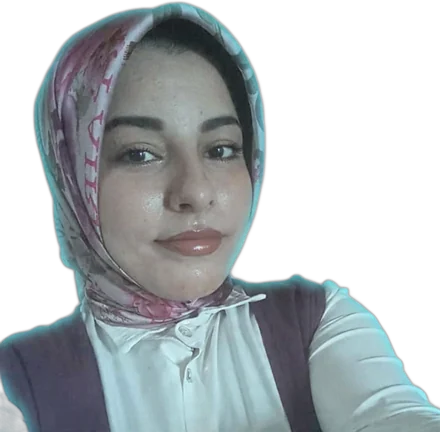
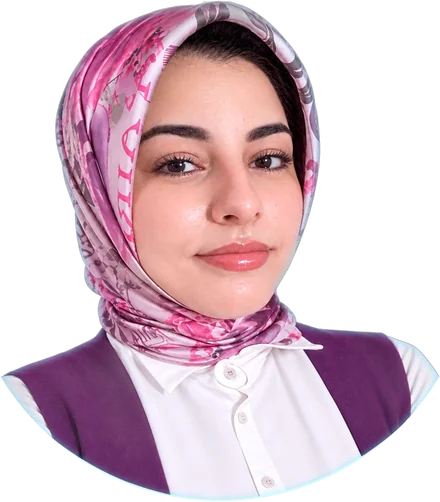
New photo, Behance first with new case studies, reorder code projects
Claude-Session: https://claude.ai/code/session_01Sa3W7kPW7r1QzUZKBE73K5

diff --git a/src/data/projects.js b/src/data/projects.js
@@ -16,17 +16,6 @@ export const githubProjects = [
     image: 'projects/ecommerce.webp',
   },
   {
-    title: { en: 'YourUni Registration System', ar: 'نظام تسجيل YourUni' },
-    desc: {
-      en: 'Student registration platform for Malaysian universities with role-based access, document management and task tracking.',
-      ar: 'منصة لتسجيل الطلاب في جامعات ماليزيا بصلاحيات حسب الدور، وإدارة للمستندات، ومتابعة للمهام.',
-    },
-    tags: ['React', 'TypeScript', 'JWT'],
-    repo: GH + 'yourni',
-    live: PAGES + 'yourni/',
-    image: 'projects/yourni.webp',
-  },
-  {
     title: { en: 'Online Book Store', ar: 'متجر الكتب أونلاين' },
     desc: {
       en: 'A book store where readers browse, search and order titles through a clean, easy interface.',
@@ -36,17 +25,6 @@ export const githubProjects = [
     repo: GH + 'book-store',
     live: 'https://book-store-theta-ruby.vercel.app',
     image: 'projects/book-store.webp',
-  },
-  {
-    title: { en: 'Social App', ar: 'تطبيق تواصل اجتماعي' },
-    desc: {
-      en: 'A Facebook-style social network in React and Tailwind using React Query, global state and custom hooks, with dark mode.',
-      ar: 'شبكة تواصل على طريقة فيسبوك بـ React وTailwind، تستخدم React Query وإدارة الحالة العامة والـ hooks، مع وضع داكن.',
-    },
-    tags: ['React', 'React Query', 'Tailwind'],
-    repo: GH + 'SocialApp',
-    live: PAGES + 'SocialApp/',
-    image: 'projects/social.webp',
   },
   {
     title: { en: 'FruityShop', ar: 'متجر FruityShop' },
@@ -60,17 +38,6 @@ export const githubProjects = [
     image: 'projects/fruity.webp',
   },
   {
-    title: { en: 'Bookmarker', ar: 'مدير الروابط Bookmarker' },
-    desc: {
-      en: 'A bookmark manager to save, visit and delete favorite sites, with URL validation and local storage.',
-      ar: 'تطبيق لحفظ المواقع المفضلة وزيارتها وحذفها، مع التحقق من صحة الروابط والحفظ في المتصفح.',
-    },
-    tags: ['JavaScript', 'CRUD', 'Validation'],
-    repo: GH + 'BookMark-CRUDS',
-    live: PAGES + 'BookMark-CRUDS/',
-    image: 'projects/bookmark.webp',
-  },
-  {
     title: { en: 'Start Framework (React)', ar: 'Start Framework بـ React' },
     desc: {
       en: 'A multi-page React site practicing hooks, props, state management and routing between pages.',
@@ -81,21 +48,43 @@ export const githubProjects = [
     live: PAGES + 'ReactApp1/',
     image: 'projects/reactapp1.webp',
   },
+  {
+    title: { en: 'Social App', ar: 'تطبيق تواصل اجتماعي' },
+    desc: {
+      en: 'A Facebook-style social network in React and Tailwind using React Query, global state and custom hooks, with dark mode.',
+      ar: 'شبكة تواصل على طريقة فيسبوك بـ React وTailwind، تستخدم React Query وإدارة الحالة العامة والـ hooks، مع وضع داكن.',
+    },
+    tags: ['React', 'React Query', 'Tailwind'],
+    repo: GH + 'SocialApp',
+    live: PAGES + 'SocialApp/',
+    image: 'projects/social.webp',
+  },
 ]
 
-// Behance case studies.
+// Behance case studies, in display order. Covers are the project covers from Behance.
+const BE_COVER = 'https://mir-s3-cdn-cf.behance.net/projects/max_808_webp/'
+
 export const behanceProjects = [
   {
-    title: { en: 'InstaPay Website Redesign', ar: 'إعادة تصميم موقع InstaPay' },
+    title: { en: 'Saydaliyati Medical App', ar: 'تطبيق صيدليتي الطبي' },
     desc: {
-      en: 'A conceptual redesign of the InstaPay website: better user experience, a modern visual interface and a cleaner, more accessible design that keeps the brand identity.',
-      ar: 'إعادة تصميم مفاهيمية لموقع InstaPay: تجربة استخدام أفضل، وواجهة عصرية، وتصميم أنظف وأسهل في الوصول مع الحفاظ على هوية البراند.',
+      en: 'Saydality, an Arabic-first pharmacy app that reminds users of their medicine schedule. A full UI/UX case study designed in Figma over 6 weeks.',
+      ar: 'صيدليتي، تطبيق صيدلية عربي يذكّر المستخدم بمواعيد أدويته. دراسة حالة UI/UX كاملة صُممت على Figma خلال 6 أسابيع.',
     },
-    tags: ['Web', 'Fintech', 'Redesign'],
-    url: 'https://www.behance.net/gallery/252112823/InstaPay-Website-Redesign',
-    image: 'https://mir-s3-cdn-cf.behance.net/project_modules/1400/6e2ebe252112823.6ac81d58e6fd8.png',
-    fallback: 'projects/behance-instapay.webp',
-    kind: 'web',
+    tags: ['Mobile', 'Health', 'Arabic UI'],
+    url: 'https://www.behance.net/gallery/253656695/-Medical-app',
+    image: BE_COVER + '57f95c253656695.Y3JvcCwzNDI4LDI2ODIsNDQxLDA.png',
+    fallback: 'projects/behance-saydality.webp',
+  },
+  {
+    title: { en: "Mo'na Grocery Delivery App", ar: 'مؤنة لتوصيل البقالة' },
+    desc: {
+      en: 'A full UX/UI case study for a grocery delivery ecosystem: mobile app, website and dashboard, from user interviews and competitor analysis to a 336-component design system.',
+      ar: 'دراسة حالة UX/UI كاملة لمنظومة توصيل بقالة: تطبيق موبايل وموقع وداشبورد، من مقابلات المستخدمين وتحليل المنافسين لحد Design System من 336 كومبوننت.',
+    },
+    tags: ['Mobile', 'Web', 'Dashboard'],
+    url: 'https://www.behance.net/gallery/258864421/-Mona-Grocery-Delivery-App-UXUI-Case-Study',
+    image: BE_COVER + '1c8a95258864421.Y3JvcCw0ODQ4LDM3OTIsMCww.png',
   },
   {
     title: { en: 'Glowee Beauty Booking', ar: 'Glowee لحجز مراكز التجميل' },
@@ -105,20 +94,28 @@ export const behanceProjects = [
     },
     tags: ['Web', 'Booking', 'Beauty'],
     url: 'https://www.behance.net/gallery/255928433/Beauty-Center-GloweeBooking',
-    image: 'https://mir-s3-cdn-cf.behance.net/project_modules/1400/6dcfcf255928433.6ab9dd3435120.png',
+    image: BE_COVER + '570a60255928433.Y3JvcCw0ODQ4LDM3OTIsMCww.png',
     fallback: 'projects/behance-glowee.webp',
-    kind: 'mobile',
   },
   {
-    title: { en: 'Saydaliyati Medical App', ar: 'تطبيق صيدليتي الطبي' },
+    title: { en: 'InstaPay Website Redesign', ar: 'إعادة تصميم موقع InstaPay' },
     desc: {
-      en: 'Saydality, an Arabic-first pharmacy app that reminds users of their medicine schedule. A full UI/UX case study designed in Figma over 6 weeks.',
-      ar: 'صيدليتي، تطبيق صيدلية عربي يذكّر المستخدم بمواعيد أدويته. دراسة حالة UI/UX كاملة صُممت على Figma خلال 6 أسابيع.',
+      en: 'A conceptual redesign of the InstaPay website: better user experience, a modern visual interface and a cleaner, more accessible design that keeps the brand identity.',
+      ar: 'إعادة تصميم مفاهيمية لموقع InstaPay: تجربة استخدام أفضل، وواجهة عصرية، وتصميم أنظف وأسهل في الوصول مع الحفاظ على هوية البراند.',
     },
-    tags: ['Mobile', 'Health', 'Arabic UI'],
-    url: 'https://www.behance.net/gallery/253656695/-Medical-app',
-    image: 'https://mir-s3-cdn-cf.behance.net/project_modules/1400/c09c27253656695.6a6ef482118be.png',
-    fallback: 'projects/behance-saydality.webp',
-    kind: 'mobile',
+    tags: ['Web', 'Fintech', 'Redesign'],
+    url: 'https://www.behance.net/gallery/252112823/InstaPay-Website-Redesign',
+    image: BE_COVER + '9a5ab5252112823.Y3JvcCwzMzI5LDI2MDQsMzYyLDA.png',
+    fallback: 'projects/behance-instapay.webp',
+  },
+  {
+    title: { en: 'Kyan Design System', ar: 'نظام التصميم كيان' },
+    desc: {
+      en: "A bilingual Arabic/English design system built in Figma for Mo'na: 336 components, 1,922 RTL and LTR variants, 308 variables, light/dark and 3 brand modes.",
+      ar: 'نظام تصميم ثنائي اللغة (عربي/إنجليزي) على Figma لتطبيق مؤنة: 336 كومبوننت، و1,922 فاريانت RTL وLTR، و308 متغير، مع وضع فاتح وداكن و3 أوضاع للبراند.',
+    },
+    tags: ['Design System', 'Figma', 'RTL/LTR'],
+    url: 'https://www.behance.net/gallery/258566247/Kyan-Design-System-Bilingual-UI-Case-Study',
+    image: BE_COVER + 'e25d1d258566247.Y3JvcCw0MTQyLDMyNDAsMCww.png',
   },
 ]

diff --git a/src/components/Behance.jsx b/src/components/Behance.jsx
@@ -9,7 +9,7 @@ import Cover from './Cover'
 export default function Behance() {
   const { tr, lang } = usePrefs()
   return (
-    <section className="gutter bg-surface-2/50 py-20 md:py-28" aria-labelledby="behance-title">
+    <section id="projects" className="gutter bg-surface-2/50 py-20 md:py-28" aria-labelledby="behance-title">
       <div className="mx-auto max-w-6xl">
         <SectionHead
           eyebrow={tr.behance.eyebrow}
@@ -29,13 +29,13 @@ export default function Behance() {
                   {p.image ? (
                     <img
                       src={p.image.startsWith('http') ? p.image : `./${p.image}`}
-                      onError={(e) => { if (p.fallback && !e.currentTarget.dataset.fb) { e.currentTarget.dataset.fb = '1'; e.currentTarget.src = `./${p.fallback}` } }}
+                      onError={(e) => { if (p.fallback && !e.currentTarget.dataset.fb) { e.currentTarget.dataset.fb = '1'; e.currentTarget.src = `./${p.fallback}` } else if (!p.fallback) { e.currentTarget.style.visibility = 'hidden' } }}
                       referrerPolicy="no-referrer"
                       alt={p.title[lang]}
                       loading="lazy"
-                      width="800"
-                      height="500"
-                      className="aspect-[16/10] w-full bg-surface-2 object-cover object-top transition duration-500 group-hover:scale-105"
+                      width="808"
+                      height="632"
+                      className="aspect-[808/632] w-full bg-surface-2 object-cover transition duration-500 group-hover:scale-105"
                     />
                   ) : (
                     <div className="transition duration-500 group-hover:scale-105"><Cover title={p.title.en} kind={p.kind} tags={p.tags} seed={i + 2} /></div>

diff --git a/src/components/Hero.jsx b/src/components/Hero.jsx
@@ -49,10 +49,10 @@ function Portrait({ cards, rtl }) {
           srcSet="./img/taghreed-440.webp 440w, ./img/taghreed-720.webp 720w"
           sizes="(max-width: 768px) 80vw, 440px"
           width="720"
-          height="707"
+          height="821"
           alt="Taghreed Said"
           fetchPriority="high"
-          className="absolute inset-x-0 bottom-0 mx-auto w-[92%] select-none"
+          className="absolute inset-x-0 bottom-0 mx-auto w-[84%] select-none"
           draggable="false"
         />
         <div className="portrait-lines pointer-events-none absolute inset-0" aria-hidden="true" />

diff --git a/src/components/Projects.jsx b/src/components/Projects.jsx
@@ -47,7 +47,7 @@ function ProjectCard({ p, i, tr, lang }) {
 export default function Projects() {
   const { tr, lang } = usePrefs()
   return (
-    <section id="projects" className="gutter py-20 md:py-28">
+    <section id="code" className="gutter py-20 md:py-28">
       <div className="mx-auto max-w-6xl">
         <SectionHead
           eyebrow={tr.projects.eyebrow}

diff --git a/src/App.jsx b/src/App.jsx
@@ -13,8 +13,8 @@ export default function App() {
       <main>
         <Hero />
         <Marquee />
-        <Projects />
         <Behance />
+        <Projects />
         <Contact />
       </main>
       <Footer />
